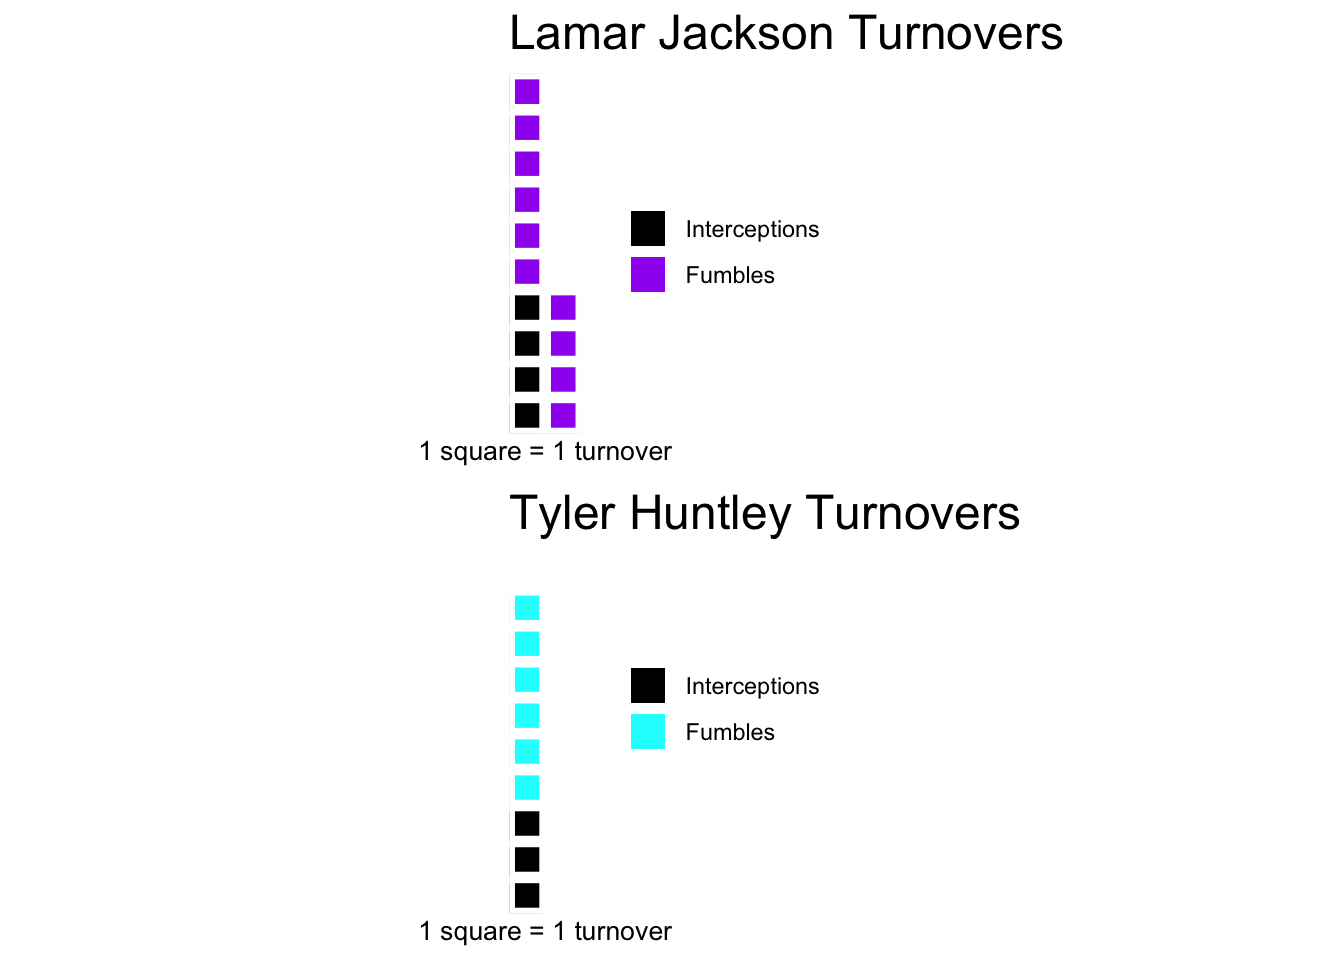
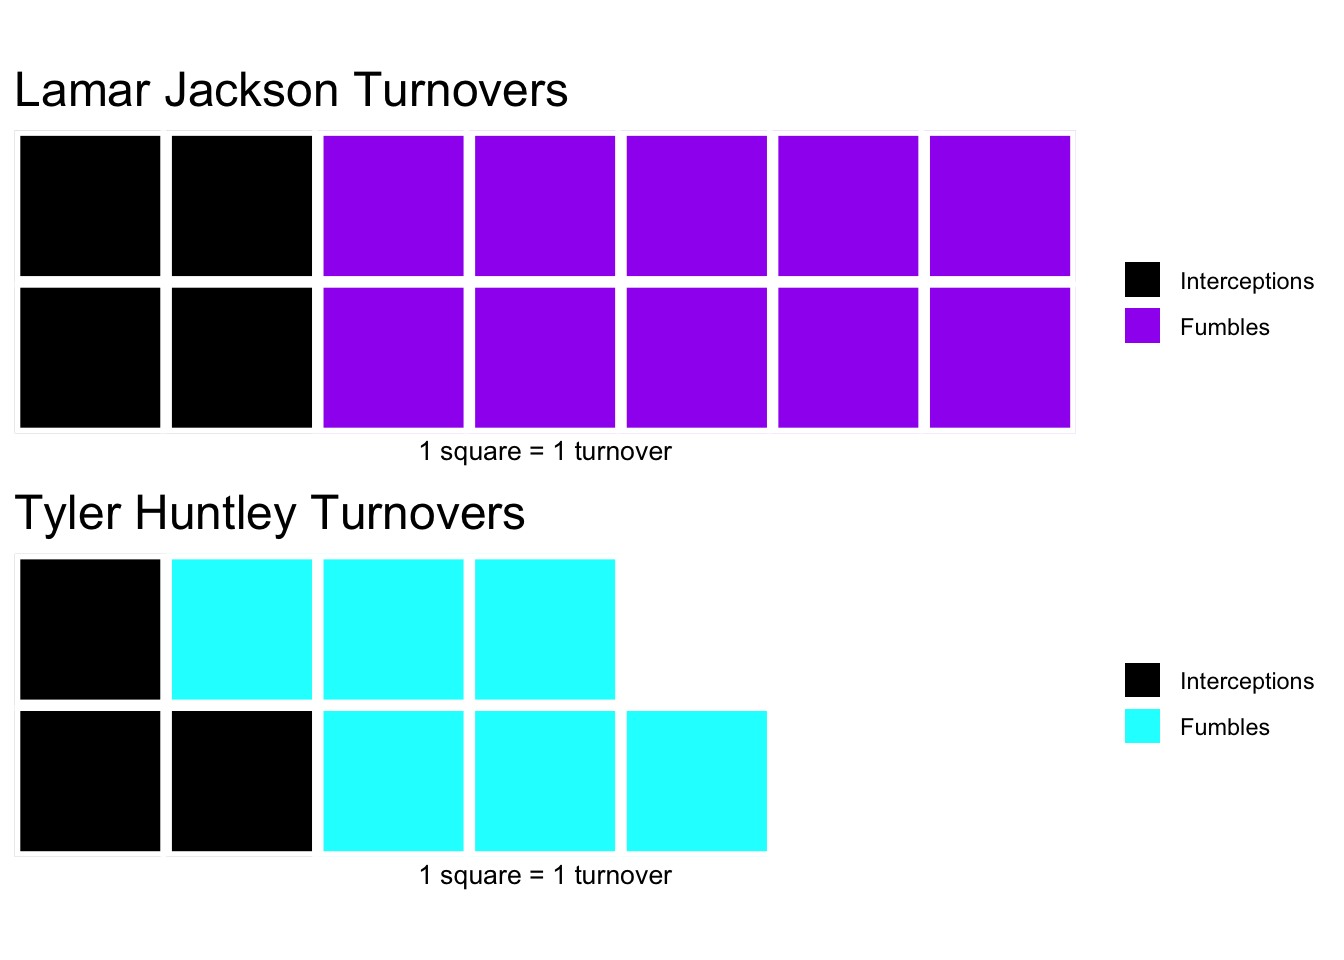
2

diff --git a/posts/dual-threat-dilemma/index.html b/posts/dual-threat-dilemma/index.html
@@ -253,7 +253,7 @@ pre > code.sourceCode > span > a:first-child::before { text-decoration: underlin
 <span id="cb1-53"><a href="#cb1-53" aria-hidden="true" tabindex="-1"></a>  <span class="fu">labs</span>(</span>
 <span id="cb1-54"><a href="#cb1-54" aria-hidden="true" tabindex="-1"></a>    <span class="at">x=</span><span class="st">"Passing Yards Per Game"</span>, </span>
 <span id="cb1-55"><a href="#cb1-55" aria-hidden="true" tabindex="-1"></a>    <span class="at">y=</span><span class="st">"Average Quarterback Rating"</span>, </span>
-<span id="cb1-56"><a href="#cb1-56" aria-hidden="true" tabindex="-1"></a>    <span class="at">title=</span><span class="st">"Things did not go swimmingly for the new dolphin"</span>, </span>
+<span id="cb1-56"><a href="#cb1-56" aria-hidden="true" tabindex="-1"></a>    <span class="at">title=</span><span class="st">"Things did not go swimmingly for the new Dolphin"</span>, </span>
 <span id="cb1-57"><a href="#cb1-57" aria-hidden="true" tabindex="-1"></a>    <span class="at">subtitle=</span><span class="st">"Tyler Huntley is a below average quarterback. Joe Burrow and Lamar Jackson stood out as top </span><span class="sc">\n</span><span class="st">quarterbacks. Brock Purdy is balling out on a budget, while Kyle Trask is more like Kyle Trash."</span>, </span>
 <span id="cb1-58"><a href="#cb1-58" aria-hidden="true" tabindex="-1"></a>    <span class="at">caption=</span><span class="st">"Source: Sports Reference and Over The Cap  | By Joshua Carlson"</span>,</span>
 <span id="cb1-59"><a href="#cb1-59" aria-hidden="true" tabindex="-1"></a><span class="at">size =</span> <span class="st">"$alary"</span></span>
@@ -330,13 +330,13 @@ pre > code.sourceCode > span > a:first-child::before { text-decoration: underlin
 <span id="cb3-3"><a href="#cb3-3" aria-hidden="true" tabindex="-1"></a></span>
 <span id="cb3-4"><a href="#cb3-4" aria-hidden="true" tabindex="-1"></a><span class="fu">iron</span>(</span>
 <span id="cb3-5"><a href="#cb3-5" aria-hidden="true" tabindex="-1"></a> <span class="fu">waffle</span>(LJI, </span>
-<span id="cb3-6"><a href="#cb3-6" aria-hidden="true" tabindex="-1"></a>        <span class="at">rows =</span> <span class="dv">10</span>, </span>
+<span id="cb3-6"><a href="#cb3-6" aria-hidden="true" tabindex="-1"></a>        <span class="at">rows =</span> <span class="dv">2</span>, </span>
 <span id="cb3-7"><a href="#cb3-7" aria-hidden="true" tabindex="-1"></a>        <span class="at">title=</span><span class="st">"Lamar Jackson Turnovers"</span>, </span>
 <span id="cb3-8"><a href="#cb3-8" aria-hidden="true" tabindex="-1"></a>        <span class="at">xlab=</span><span class="st">"1 square = 1 turnover"</span>, </span>
 <span id="cb3-9"><a href="#cb3-9" aria-hidden="true" tabindex="-1"></a>        <span class="at">colors =</span> <span class="fu">c</span>(<span class="st">"black"</span>, <span class="st">"purple"</span>)</span>
 <span id="cb3-10"><a href="#cb3-10" aria-hidden="true" tabindex="-1"></a>        ),</span>
 <span id="cb3-11"><a href="#cb3-11" aria-hidden="true" tabindex="-1"></a> <span class="fu">waffle</span>(THI, </span>
-<span id="cb3-12"><a href="#cb3-12" aria-hidden="true" tabindex="-1"></a>        <span class="at">rows =</span> <span class="dv">10</span>, </span>
+<span id="cb3-12"><a href="#cb3-12" aria-hidden="true" tabindex="-1"></a>        <span class="at">rows =</span> <span class="dv">2</span>, </span>
 <span id="cb3-13"><a href="#cb3-13" aria-hidden="true" tabindex="-1"></a>        <span class="at">title=</span><span class="st">"Tyler Huntley Turnovers"</span>, </span>
 <span id="cb3-14"><a href="#cb3-14" aria-hidden="true" tabindex="-1"></a>        <span class="at">xlab=</span><span class="st">"1 square = 1 turnover"</span>, </span>
 <span id="cb3-15"><a href="#cb3-15" aria-hidden="true" tabindex="-1"></a>        <span class="at">colors =</span> <span class="fu">c</span>(<span class="st">"black"</span>, <span class="st">"cyan"</span>, <span class="st">"white"</span>)</span>

diff --git a/index.html b/index.html
@@ -209,7 +209,7 @@ window.Quarto = {
 
 <div class="quarto-listing quarto-listing-container-default" id="listing-listing">
 <div class="list quarto-listing-default">
-<div class="quarto-post image-right" data-index="0" data-categories="bmZsJTJDZm9vdGJhbGw=" data-listing-date-sort="1763359200000" data-listing-file-modified-sort="1763146987392" data-listing-date-modified-sort="NaN" data-listing-reading-time-sort="3" data-listing-word-count-sort="542">
+<div class="quarto-post image-right" data-index="0" data-categories="bmZsJTJDZm9vdGJhbGw=" data-listing-date-sort="1763359200000" data-listing-file-modified-sort="1763150052365" data-listing-date-modified-sort="NaN" data-listing-reading-time-sort="3" data-listing-word-count-sort="542">
 <div class="thumbnail"><a href="./posts/dual-threat-dilemma/index.html" class="no-external">
 
 <img loading="lazy" src="./posts/dual-threat-dilemma/image.png" class="thumbnail-image">
